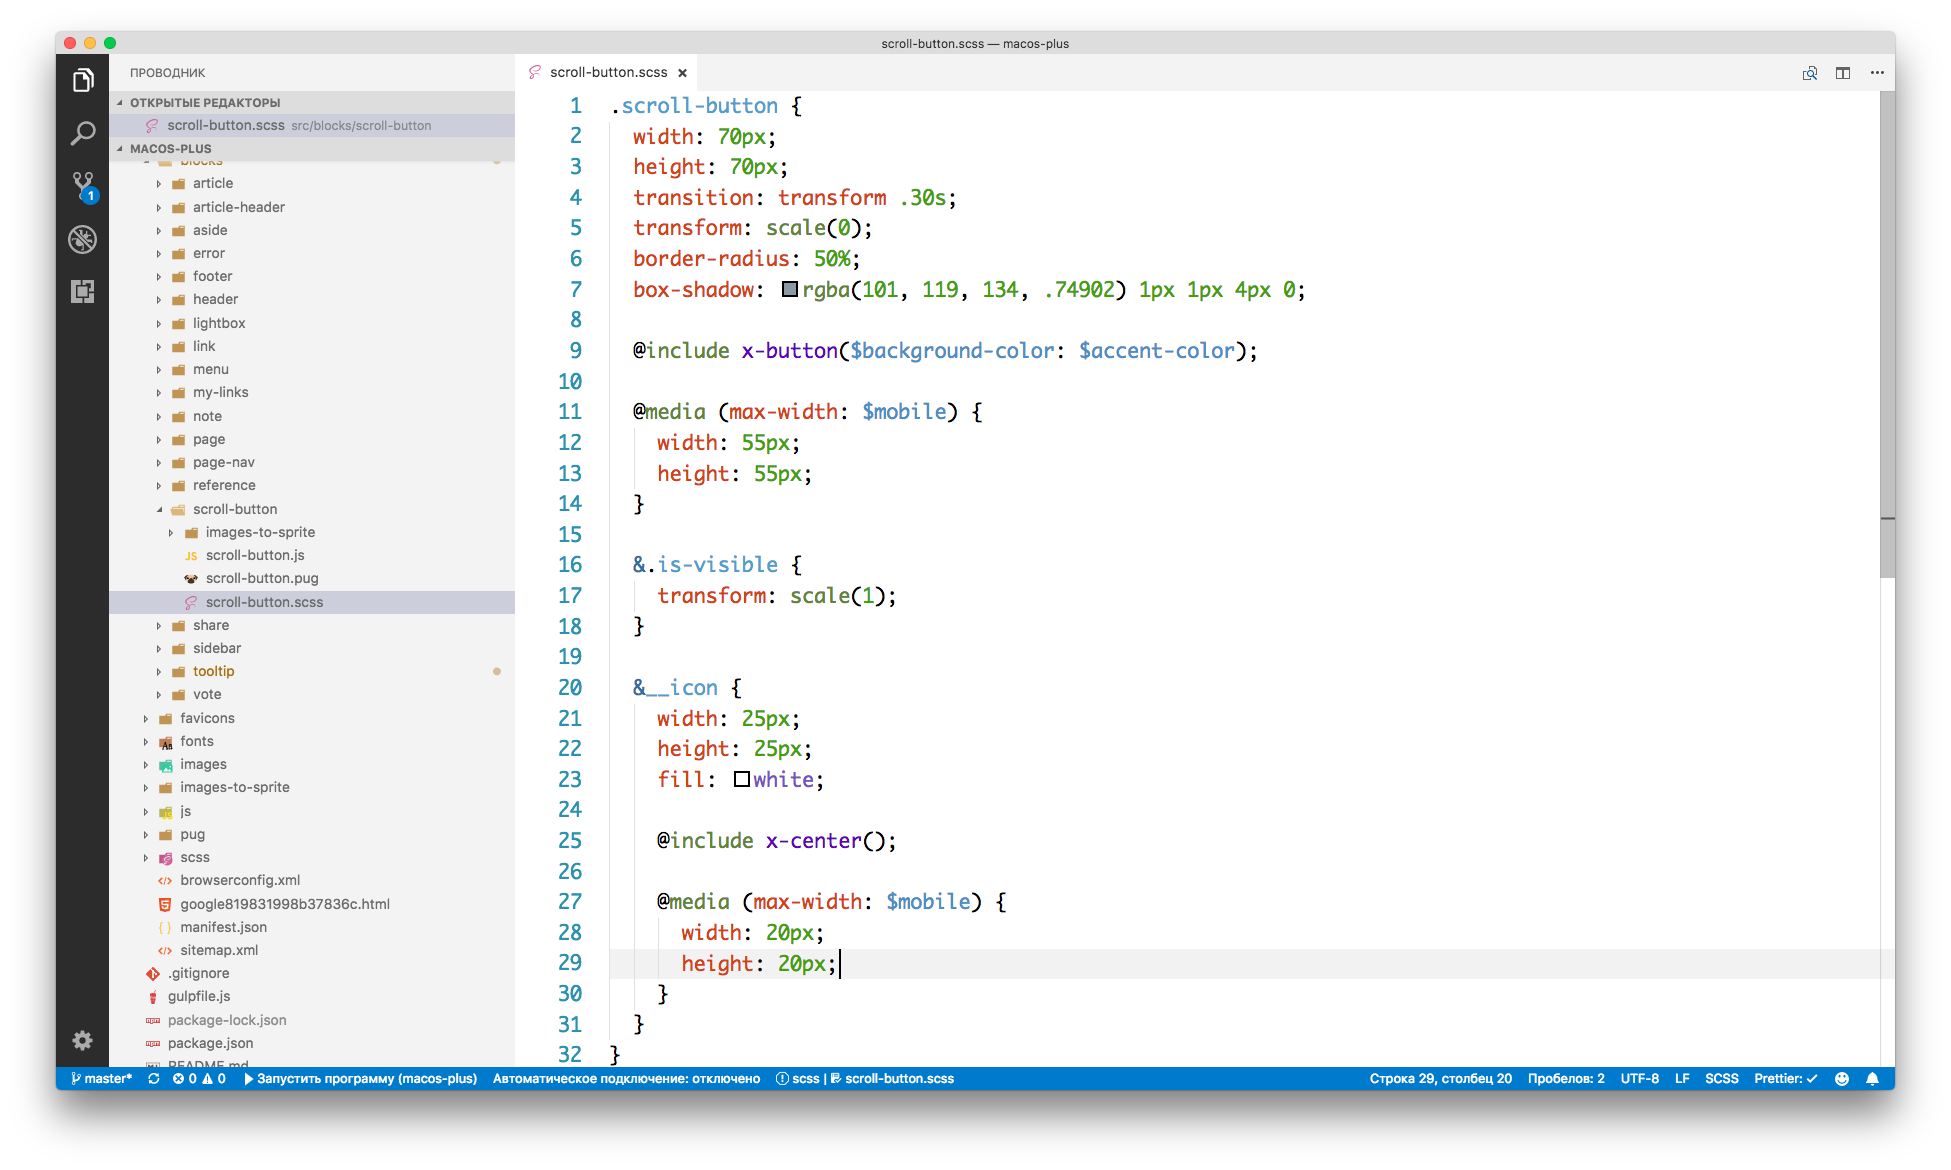
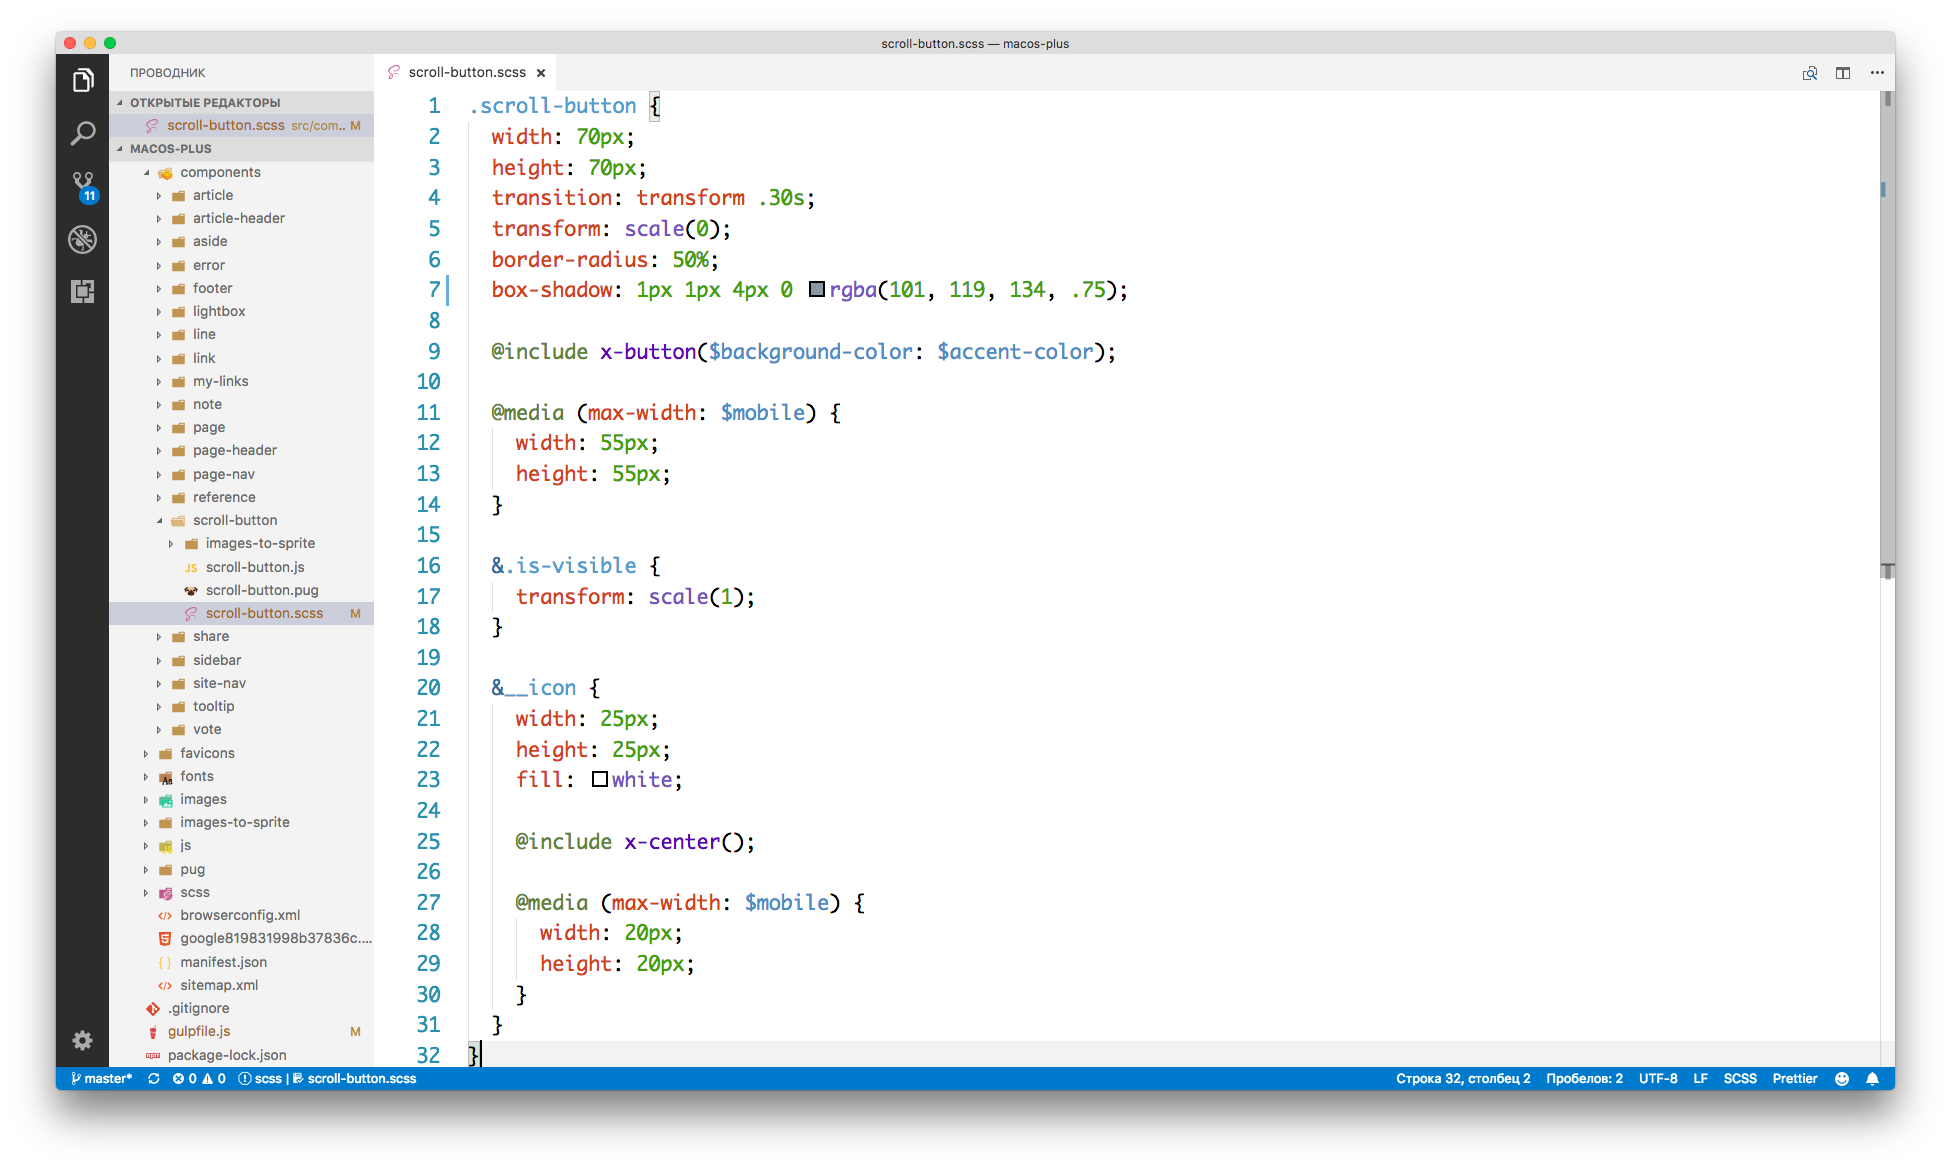
2.2.0
* Enhancement [SCSS]: Added appropriate colours to @ and % prefixes
* Enhancement [SCSS]: Added the colour to @extend value
* Enhancement [SCSS]: Added colours to .className dots
* Other [SCSS]: Changed the support function colour
* Fix [SCSS]: Fixed some wrong colours in several places
such as the hex value colour after a variable

diff --git a/CHANGELOG.md b/CHANGELOG.md
@@ -1,5 +1,12 @@
 # Change Log
 
+## 2.2.0 (2018-05-23)
+* Enhancement [SCSS]: Added appropriate colours to `@` and `%` prefixes
+* Enhancement [SCSS]: Added the colour to `@extend value`
+* Enhancement [SCSS]: Added colours to `.className` dots
+* Other [SCSS]: Changed the support function colour (`darken()`, `rgba()` etc.)
+* Fix [SCSS]: Fixed some wrong colours in several places such as the hex value colour after a variable: `$grey: #333`
+
 ## 2.1.0 (2018-04-13)
 * Enhancement: Added SCSS support
 * Enhancement [SCSS]: Added SCSS mixin color
